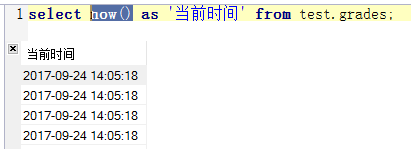
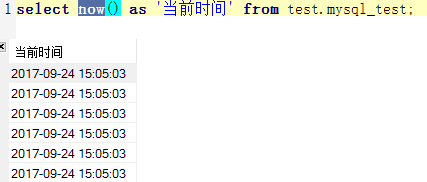
MySQL year+month+floor Orcal months_between+fllor

diff --git a/MySQLBO/README.md b/MySQLBO/README.md
@@ -1,7 +1,10 @@
 # MySQL 常用函数 <h3 id="abstract"></h3>
 ### 目录
 + [获取当前时间](#getCuttentTime)
++ [year()函数+month()函数+floor()函数](#yearMonthFloor)
+
 ---
+
 ### 测试表 <h3 id="testTable"></h3>
 + [测试表1](#testTable1)
 
@@ -9,45 +12,59 @@
 
 + ### <h3 id="getCuttentTime">获取当前时间</h3> [返回目录](#abstract)
 ```
-select now() as '当前时间' from test.grades;
+select now() as '当前时间' from test.mysql_test;
 ```
 ### 执行结果
 ![getCurrentTime](https://github.com/Tanglong9344/SQL/blob/master/MySQLBO/picture/getCurrentTime.png)
+
+----
+
++ ### <h3 id="yearMonthFloor">year()函数+month()函数+floor()函数</h3> [返回目录](#abstract)
+```
+# year 获取两个日期间地年数
+# month 获取两个日期间地月数
+# floor 向下取整
+
+SELECT
+  `t`.`name` AS '姓名', 
+  (YEAR(NOW()) - YEAR(`t`.`birth_date`)) +
+   FLOOR((MONTH(NOW()) -
+   MONTH(`t`.`birth_date`)) / 12) AS '年龄'
+FROM
+  `test`.`mysql_test` t
+```
+### 执行结果
+![getCurrentTime](https://github.com/Tanglong9344/SQL/blob/master/MySQLBO/picture/getCurrentTime.png)
+
 ----
 
 + ### <h3 id="testTable1">测试表1</h3> [返回目录](#testTable)
 ```
 # Host: 127.0.0.1  (Version 5.7.18)
-# Date: 2017-09-20 21:38:18
+# Date: 2017-09-24 15:03:09
 # Generator: MySQL-Front 6.0  (Build 2.20)
 #
-# Structure for table "grades"
+# Structure for table "mysql_test"
 #
-CREATE TABLE `grades` (
+CREATE TABLE `mysql_test` (
   `Id` int(11) NOT NULL AUTO_INCREMENT,
-  `name` varchar(255) NOT NULL DEFAULT '' COMMENT '学生姓名',
-  `subject` varchar(255) DEFAULT '' COMMENT '学科类别',
-  `score` varchar(255) DEFAULT NULL COMMENT '学生的成绩',
+  `name` varchar(30) NOT NULL DEFAULT '' COMMENT '姓名',
+  `birth_date` date NOT NULL DEFAULT '0000-00-00' COMMENT '出生日期',
+  `study_date` varchar(255) DEFAULT NULL COMMENT '入学日期',
   PRIMARY KEY (`Id`)
-) ENGINE = InnoDB DEFAULT CHARSET = utf8 COMMENT = '学生成绩';
+) ENGINE = InnoDB DEFAULT CHARSET = utf8 COMMENT = 'MySQL测试表';
 #
-# Data for table "grades"
+# Data for table "mysql_test"
 #
 INSERT
-  INTO `grades`
+  INTO `mysql_test`
 VALUES
-  (2, '小明', '数学', '100'),
-  (3, '小明', '语文', '98'),
-  (4, '小明', '英语', '96'),
-  (8, '小黑', '语文', '68'),
-  (9, '小黑', '英语', '66'),
-  (10, '小黑', '数学', '66'),
-  (11, '小宏', '语文', '88'),
-  (12, '小宏', '英语', '89'),
-  (13, '小宏', '数学', '93'),
-  (14, '小绿', '语文', '87'),
-  (15, '小绿', '英语', '99'),
-  (16, '小绿', '数学', '96');
+  (1, '小明', '1998-05-06', '2004-09-01'),
+  (2, '大明', '1999-11-06', '2004-09-01'),
+  (3, '小黑', '1998-08-26', '2003-09-01'),
+  (4, '小白', '1998-10-21', '2005-09-01'),
+  (5, '曹操', '1668-03-06', '1668-03-06'),
+  (6, '刘备', '1663-05-02', '1668-05-06');
 ```
 ### 完成后显示结果
 ![测试表1](https://github.com/Tanglong9344/SQL/blob/master/MySQLBO/picture/testTable1.png)

diff --git a/OrcalBO/README.md b/OrcalBO/README.md
@@ -4,6 +4,7 @@
 + [to_date()函数](#toDate)
 + [regexp_replace()函数](#regexpReplace)
 + [获取当前时间](#getCuttentTime)
++ [floor()函数和months_between()函数](#floorAndMonths_between)
 ---
 ### 测试表 <h3 id="testTable"></h3>
 + [测试表1](#testTable1)
@@ -51,6 +52,19 @@ select sysdate as 当前时间 from grades_test;
 ```
 ### 执行结果
 ![getCurrentTime](https://github.com/Tanglong9344/SQL/blob/master/OrcalBO/picture/getCurrentTime.png)
+
+----
++ ### <h3 id="floorAndMonths_between">fllor()函数和months_between()函数</h3> [返回目录](#abstract)
+```
+-- floor()函数，取整数
+-- months_between()函数，获取两个日期之间的月份数
+
+SELECT t.name as 姓名,
+       floor(months_between(sysdate, to_date(t.birth_date, 'yyyy-mm-dd')) / 12) as 年龄
+  from orcal_test t
+```
+### 执行结果
+![floorAndMonths_between](https://github.com/Tanglong9344/SQL/blob/master/OrcalBO/picture/floorAndMonths_between.png)
 
 ----
 
